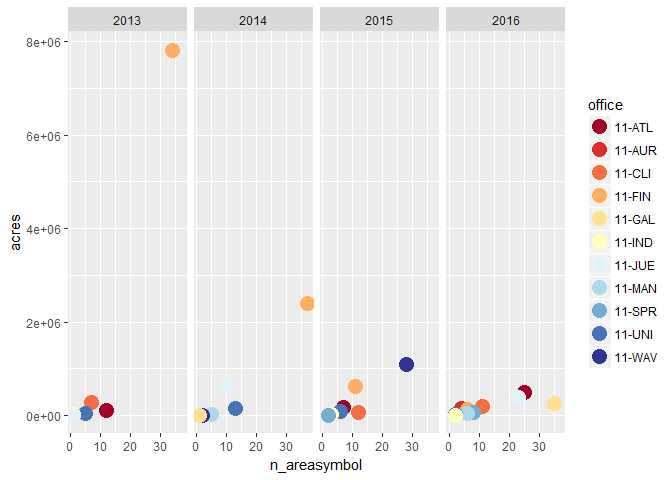
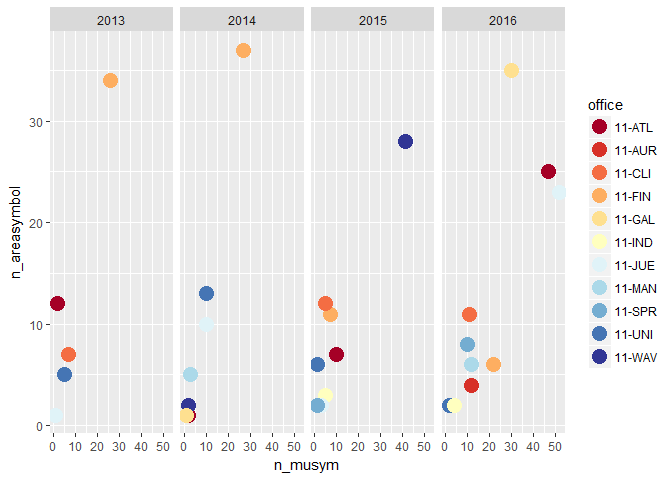
updates to sdjr_summary.Rmd

diff --git a/updates/sdjr_summary.md b/updates/sdjr_summary.md
@@ -7,7 +7,7 @@ December 12, 2016
 
 
 ```r
-setwd("C:/Users/stephen/ownCloud/Documents/lims_data")
+setwd("C:/Users/stephen.roecker/ownCloud/Documents/lims_data")
 
 ### Set parameters
 ro <- 11
@@ -53,23 +53,24 @@ load(file = "ssa.Rdata"); ssa -> ssa2
 ### rcors
 old_names <- c("sso", "old_musym", "old_natsym", "new_natsym", "old_mukey", "old_acres", "new_acres", "old_muname", "old_musym2", "spatial")
 new_names <- c("office", "musym", "nationalmusym", "new_nationalmusym", "mukey", "muacres", "new_muacres", "muname", "musym_orig", "spatial_change")
-names(rcors..)                              <- tolower(names(rcors..))
+names(rcors..) <- tolower(names(rcors..))
 names(rcors..)[which(names(rcors..) %in% old_names)] <- new_names
-rcors.. <- transform(rcors..,
-                     projecttypename = substr(projectname, 1, 4),
-                     state = substr(areasymbol, 1, 2)
-                     )
-rcors16 <- subset(rcors16, !is.na(new_mukey))
-rcors16 <- transform(rcors16, 
-                     state = substr(areasymbol, 1, 2)
-                     )
+rcors.. <- mutate(rcors..,
+                  projecttypename = substr(projectname, 1, 4),
+                  state = substr(areasymbol, 1, 2)
+                  )
+rcors16 <- filter(rcors16, !is.na(new_mukey))
+rcors16 <- mutate(rcors16,
+                  state = substr(areasymbol, 1, 2)
+                  )
 
 match_names <- names(rcors..)[names(rcors..) %in% names(rcors16)]
-rcors <- merge(rcors.., rcors16, all = TRUE)
-rcors <- subset(rcors, select = match_names)
+rcors <- full_join(rcors.., rcors16)
+rcors <- rcors[, match_names]
 
 
 ### goals
+
 old_names <- c("ssoffice", "projecttype")
 new_names <- c("office", "projecttypename")
 names(goals)[which(names(goals) %in% old_names)] <- new_names
@@ -131,6 +132,7 @@ kable(test2)
 #   facet_wrap(fy ~ ., scales = "free_y")
 ```
 
+
 ## Examine Reported Acres
 
 
@@ -141,12 +143,35 @@ temp <- goals %>%
   summarize(
     goaled = sum(goaled),
     reported = sum(reported)
-    )
-rank <- sort(tapply(temp$reported, list(temp$office), sum))
-temp <- transform(temp,
-                  office = factor(office, levels = sort(unique(temp$office), decreasing = TRUE)),
-                  projecttypename = factor(projecttypename, levels = pt2)
-                  )
+    ) %>%
+  as.data.frame()
+
+tapply(temp$reported, list(temp$office), sum) ->.; sort(., decreasing = TRUE) ->.; format(., format = "E", digits = 1) # rank based on sum of acres
+```
+
+```
+##  11-GAL  11-UNI  11-CLI  11-FIN  11-SPR  11-ATL  11-JUE  11-WAV  11-MAN 
+## "3e+06" "2e+06" "2e+06" "2e+06" "2e+06" "2e+06" "2e+06" "2e+06" "2e+06" 
+##  11-IND  11-AUR 
+## "1e+06" "1e+06"
+```
+
+```r
+tapply(temp$reported, list(temp$office), mean) ->.; sort(., decreasing = TRUE) ->.; format(., format = "E", digits = 1) # rank based on mean of acres
+```
+
+```
+##  11-GAL  11-CLI  11-SPR  11-JUE  11-WAV  11-UNI  11-IND  11-ATL  11-FIN 
+## "5e+05" "4e+05" "4e+05" "4e+05" "3e+05" "3e+05" "3e+05" "3e+05" "3e+05" 
+##  11-AUR  11-MAN 
+## "3e+05" "2e+05"
+```
+
+```r
+temp <- mutate(temp,
+               office = factor(office, levels = sort(unique(temp$office), decreasing = TRUE)),
+               projecttypename = factor(projecttypename, levels = pt2)
+               )
 
 ggplot(temp, aes(x = reported, y = office)) + 
   geom_point() + 
@@ -156,8 +181,6 @@ ggplot(temp, aes(x = reported, y = office)) +
 
 ![](sdjr_summary_files/figure-html/goals-1.png)<!-- -->
 
-
-
 ```r
 ggplot(temp, aes(x = fy, y = reported, group = office, linetype = office, shape = office)) + 
   geom_line(size = 0.7) + 
@@ -166,14 +189,16 @@ ggplot(temp, aes(x = fy, y = reported, group = office, linetype = office, shape 
   facet_grid(projecttypename ~ ., scales = "free_y")
 ```
 
-![](sdjr_summary_files/figure-html/goals2-1.png)<!-- -->
+![](sdjr_summary_files/figure-html/goals-2.png)<!-- -->
 
 
 ## Compare Project Acres to Goaled Acres
 
 
 ```r
-rcors_acres <- group_by(rcors, fy, region, office, projectname, projectiid, areasymbol) %>%
+rcors_acres <- rcors %>% 
+  filter(region == ro & projecttypename %in% pt) %>%
+  group_by(fy, region, office, projectname, projectiid, areasymbol) %>%
   summarize(
     n = length(unique(musym_orig)), 
     old_acres = sum(unique(muacres)), 
@@ -184,36 +209,30 @@ rcors_acres <- group_by(rcors, fy, region, office, projectname, projectiid, area
     n = sum(n),
     old_acres = sum(old_acres),
     new_acres = sum(new_acres)
-    ) %>%
-  as.data.frame()
+    )
 
-temp <- merge(goals, rcors_acres, by = "projectname", all.x = TRUE)
+temp <- left_join(goals, rcors_acres, by = "projectname")
 
 progress <- temp %>%
+  filter(region.x == ro & projecttypename %in% pt) %>%
   group_by(region.x, fy.x, projecttypename) %>% 
   summarize(reported = sum(reported) / 0.2,
             new_acres = sum(new_acres, na.rm = TRUE),
             dif_acres = sum(reported - new_acres, na.rm = TRUE),
             dif_pct = 100 - round(reported / new_acres * 100)
-            ) %>%
-  as.data.frame()
+            ) 
 
-rank <- sort(tapply(progress$reported, list(progress$region.x), sum))
-
-subset(progress, region.x == ro & projecttypename %in% pt)
+kable(progress)
 ```
 
-```
-##     region.x fy.x projecttypename reported new_acres dif_acres dif_pct
-## 216       11 2013            SDJR 14683105  14518199    164906      -1
-## 218       11 2014            SDJR 24150585  24332646   -182061       1
-## 221       11 2015            SDJR 21141050  21182385    -41335       0
-## 225       11 2016            SDJR 13828070  13786315     41755       0
-```
 
-```r
-# dotplot(region ~ r_goaled | , data = progress, as.table = TRUE)
-```
+
+ region.x   fy.x  projecttypename    reported   new_acres   dif_acres   dif_pct
+---------  -----  ----------------  ---------  ----------  ----------  --------
+       11   2013  SDJR               14683105    14518199      164906        -1
+       11   2014  SDJR               24150585    24332646     -182061         1
+       11   2015  SDJR               21141050    21182385      -41335         0
+       11   2016  SDJR               13828070    13786315       41755         0
 
 
 ## Summarize Spatial Changes
@@ -225,14 +244,15 @@ r11_spatial <- rcors %>%
   group_by(fy, region, office) %>%
   summarize(
     acres = sum(muacres, na.rm = T),
-    n_areasymbol = length(unique(areasymbol))
+    n_areasymbol = length(unique(areasymbol)),
+    n_musym = length(unique(musym_orig))
     ) %>%
   arrange(desc(acres))
 
-ggplot(r11_spatial, aes(x = n_areasymbol, y = acres, group = fy, color = office)) + 
+ggplot(r11_spatial, aes(x = n_musym, y = n_areasymbol, group = fy, color = office)) + 
   geom_point(cex = 5) + 
   scale_colour_brewer(palette="RdYlBu") +
-  facet_grid(~ fy, scales = "free_y")
+  facet_grid(~ fy)
 ```
 
 ![](sdjr_summary_files/figure-html/spatial-1.png)<!-- -->
@@ -242,7 +262,8 @@ ggplot(r11_spatial, aes(x = n_areasymbol, y = acres, group = fy, color = office)
 
 
 ```r
-rcors_as <- filter(rcors, region == ro & projecttypename %in% pt) %>%
+rcors_as <- rcors %>%
+  filter(region == ro & projecttypename %in% pt) %>%
   group_by(fy, region, projectiid, projecttypename, areasymbol) %>%
   summarize(
     n = length(unique(new_mukey)), 
@@ -259,8 +280,8 @@ rcors_as <- filter(rcors, region == ro & projecttypename %in% pt) %>%
 rcors_as$acres <- cut(rcors_as$new_muacres, breaks = c(0, 10000, 50000, 100000, 150000, 200000), labels = c("0 - 10,000", "10,000 - 50,000", "50,000 - 100,000", "100,000 - 150,000", "150,000 - 200,000"))
 
 rcors_as_w <- reshape(rcors_as, idvar = "areasymbol", v.names = "acres", timevar = "fy", direction = "wide")
-# rcors_as_w1 <- dcast(rcors_as, region + areasymbol ~ fy, value.var = "new_muacres", sum) # inserts 0 instead of NA
-# rcors_as_w2 <- spread(rcors_as, fy, muacres) # this doesn't aggregate, would need to be followed
+# rcors_as_w1 <- dcast(rcors_as, region + areasymbol ~ fy, value.var = "acres") # converts acres to characters instead of factors
+# rcors_as_w2 <- spread(rcors_as, fy, acres, convert = TRUE) # this recycling non-grouping variables, reshape() silently drops them
 
 fy <- paste0("acres.", sort(unique(rcors_as$fy)))
 FY <- paste0("FY", sort(unique(rcors_as$fy)))
